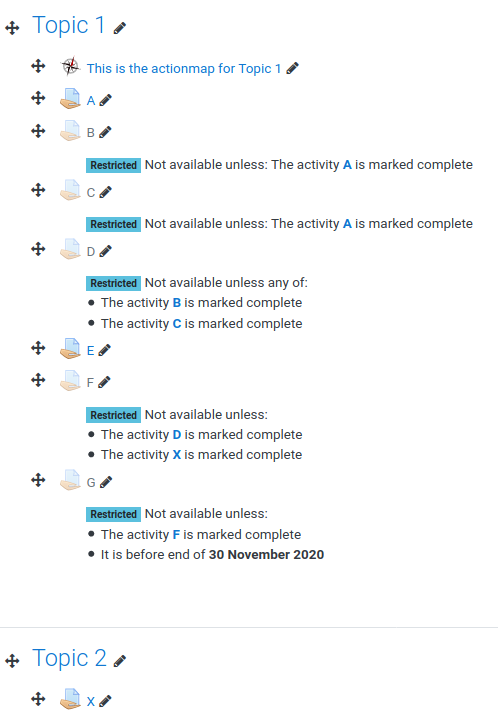
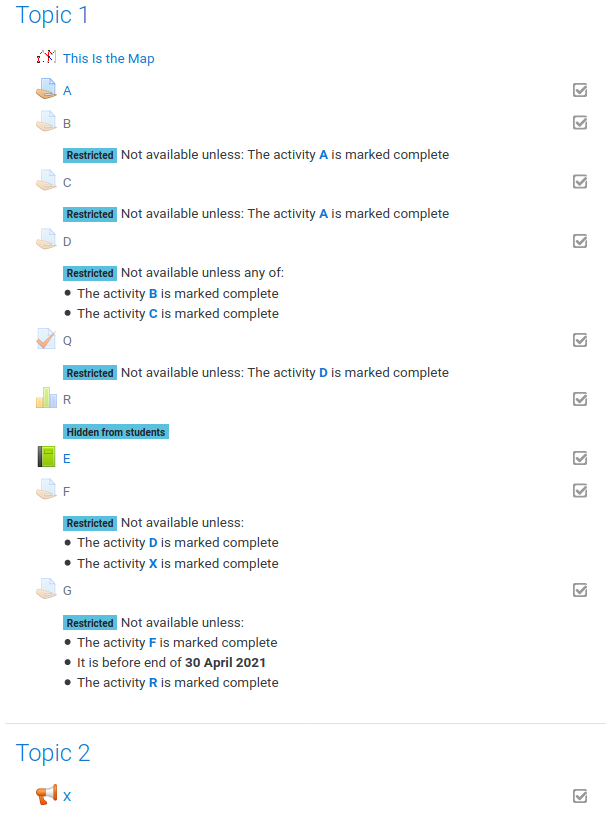
Version bump to v1.02 simplifies the graph by merging nodes with the same inputs. This merge fixes #15 and provides also some minor refactoring towards more readability.

diff --git a/gvizdot.php b/gvizdot.php
@@ -19,7 +19,7 @@
  * Activitymap module to graphviz compiler
  *
  * @package    mod_activitymap
- * @copyright  2020 Guenther Hutter, Andreas Poetscher
+ * @copyright  2021 Guenther Hutter, Andreas Poetscher
  * @license    http://www.gnu.org/copyleft/gpl.html GNU GPL v3 or later
  */
 
@@ -47,6 +47,9 @@ $PAGE->set_url('/mod/activitymap/gvizdot.php', array('id' => $mapid->id));
 $modinfo = get_fast_modinfo($courseid);
 
 $completion = new completion_info($course);
+
+$feature_show_cmIcons = true;
+$feature_mergeSameConditionNodes = true;
 
 //------------------------------------------------------------------------------
 //              DEBUGGING STUFF
@@ -343,7 +346,114 @@ function findPreviousCompletionModule($ccm, $modinfo)
     return "unknown_predecessor_for_" . $ccm;
 }
 
+//------------------------------------------------------------------------------
+/**
+    Finds nodes which are connected with the target node
+    
+    @targetnode the node where the other node should related to
+    @relation String "INCOMING" oder "OUTGOING" to tell the funciton if it 
+              should return the nodes which are connected via the incoming 
+              our outgoing nodes
+    @edgeliste the list of nodes where should be searched within
+*/
+function findLinkedNodes($targetnode, $relation, $edgelist)
+{
+    $ret = array();
 
+    foreach ($edgelist as $edge) 
+    {
+        if($relation == "INCOMING" && $targetnode == $edge[TO])
+        {
+            array_push($ret, $edge[FROM]);
+        }
+    
+        if($relation == "OUTGOING" && $targetnode == $edge[FROM])
+        {
+            array_push($ret, $edge[TO]);
+        }
+    }
+    
+    return array_unique($ret);
+}
+
+//------------------------------------------------------------------------------
+/**
+    Merges condition nodes. It tries to find nodes with similar inputs, and if
+    it finds some then an it prevents the rendering of the second (similar) node.
+    
+    I know that this approach is not very performant - approx O(n²), so 
+    if somebody finds a better solution file a pull request.
+    
+    @param conditionNodes Nodes which should be simplified. Usually all AND or al OR nodes
+    @param edges all edges which should be traversed 
+    @param nodes all noes which should be traversed
+    @returns nothing
+
+*/
+function mergeConditionNodes($conditionNodes, &$edges, &$nodes)
+{
+    // if you find a better solution file a pull request 
+    
+    $processedConditionNodes = array(); // conditions that we have already examined
+    for($i = 0; $i < sizeof($conditionNodes); $i++) 
+    {
+        $a = $conditionNodes[$i];
+        
+        // for each condition find other conditions that have the same inputs
+        $incomingNodes_a = findLinkedNodes($a, "INCOMING", $edges);
+        array_push($processedConditionNodes, $a);
+        
+        // search all other nodes
+        for($j = $i+1; $j < sizeof($conditionNodes); $j++) 
+        {
+            $b = $conditionNodes[$j];
+            // we dont have to look at the processed nodes again
+            if(in_array($b, $processedConditionNodes, true))
+            {
+                continue;
+            }           
+            
+            // clarification: Now we have foud two nodes which have potentially 
+            // the same inputs lets compare them
+            $incomingNodes_b = findLinkedNodes($b, "INCOMING", $edges);
+            
+           
+            // Compare if all nodes from a are in b and vice versa
+            // otherwise conditions a&b  is treated as different to b&a    
+            if(array_diff($incomingNodes_a, $incomingNodes_b) == array_diff($incomingNodes_b, $incomingNodes_a))
+            //if($incomingNodes_a == $incomingNodes_b)
+            {
+                // YES - we found a pair of nodes which have exactly the same inputs
+
+                // Make the incoming and outgoing links for $b invisible
+                for($k = 0; $k < sizeof($edges); $k++) 
+                {
+                    if($edges[$k][FROM] == $b || $edges[$k][TO] == $b)
+                    {
+                        $edges[$k][STYLE]["color"] = "red";
+                        $edges[$k][STYLE]["DO_NOT_RENDER"] = true;
+                    }
+                }                
+                
+                // reattach outgoing nodes
+                $outgoingNodes_b = findLinkedNodes($b, "OUTGOING", $edges);
+                foreach($outgoingNodes_b as $outb)
+                {
+                    $theNewLink = [$a, $outb, array("arrowhead" => "open")];
+                    //$theNewLink[STYLE]["color"] = "green";
+                    array_push($edges, $theNewLink); 
+                }
+                
+                // Make $b invisible
+                $nodes[$b]["color"] = "red";
+                $nodes[$b]["DO_NOT_RENDER"] = true;                
+                
+                // Remember that we have processed this node
+                array_push($processedConditionNodes, $b);
+            }
+        }
+    }
+}
 //------------------------------------------------------------------------------
 //              ACTUAL CODE STARTS HERE
 //------------------------------------------------------------------------------
@@ -358,8 +468,13 @@ print("rankdir=".$activitymap->graphdirection.";".PHP_EOL);
 
 
 // Process the conditions
-$gvnodes = array(); //<! Nodes which should be rendered
-$gvedges = array(); //<! Graphviz links between the course modules    
+$gvnodes = array(); //<! Nodes which should be rendered key=name_of_the_node, value=styleattributes 
+
+// Improove readability
+const FROM = 0;
+const TO = 1;
+const STYLE = 2;
+$gvedges = array(); //<! Graphviz links between the course modules   [0]=from, [1]=to, [2]=styleattributes 
 $gvsubgr = array(); //<! List of Subgraphs with the course modules in it
 
 foreach ($modinfo->cms as $id => $cm) {
@@ -380,9 +495,11 @@ foreach ($modinfo->cms as $id => $cm) {
       
         // Get the icon url of the activity and append it (See #14)
         // If this mechanism is changed, then it also has to be changed in the view.php
-        $cmIconUrl = new moodle_url('/mod/' . $cm->modname . '/pix/icon.png');
-        $gvnodeattributes["label"] = "<TABLE BORDER=\"0\" CELLPADDING=\"0\" CELLSPACING=\"0\"><TR><TD><IMG SRC=\"$cmIconUrl\"/></TD><TD>&nbsp; " . $gvnodeattributes["label"] . "</TD></TR></TABLE>";
-        
+        if($feature_show_cmIcons == true)
+        {
+            $cmIconUrl = new moodle_url('/mod/' . $cm->modname . '/pix/icon.png');
+            $gvnodeattributes["label"] = "<TABLE BORDER=\"0\" CELLPADDING=\"0\" CELLSPACING=\"0\"><TR><TD><IMG SRC=\"$cmIconUrl\"/></TD><TD>&nbsp; " . $gvnodeattributes["label"] . "</TD></TR></TABLE>";
+        }
 
         // Issue #10: Activities hidden by restriction condition should not be displayed
         if($cm->visible == false)
@@ -415,7 +532,7 @@ foreach ($modinfo->cms as $id => $cm) {
                 $editUrl = new moodle_url('/course/modedit.php', ['update' => $cm->id]);
                 
                 // Add a edit symbol in front of tne label
-                $gvnodeattributes["label"] = "<TABLE BORDER=\"0\" CELLPADDING=\"0\" CELLSPACING=\"0\"><TR><TD>" . $gvnodeattributes["label"] . "</TD><TD HREF=\"". $editUrl->__toString() ."\"><FONT POINT-SIZE=\"20\">&nbsp; &#x270D;</FONT></TD></TR></TABLE>";
+                $gvnodeattributes["label"] = "<TABLE BORDER=\"0\" CELLPADDING=\"0\" CELLSPACING=\"0\"><TR><TD>" . $gvnodeattributes["label"] . "</TD><TD HREF=\"". $editUrl->__toString() ."\"><FONT POINT-SIZE=\"20\">&nbsp; &#x2699;</FONT></TD></TR></TABLE>";
             }
         
             // Print completed activities in green
@@ -457,14 +574,58 @@ foreach ($modinfo->cms as $id => $cm) {
     }
 }
 
-// Simplify the graph by merging nodes with similar inputs and outputs together 
+//------------------------------------------------------------------------------
+//              Postprocessing
+//------------------------------------------------------------------------------
+// Simplify the graph by merging nodes with similar inputs together 
+
+if($feature_mergeSameConditionNodes == true)
+{
+    // Find the condition nodes
+    $andConditions = array();
+    $orConditions = array();
+    foreach ($gvnodes as $node => $attributes) 
+    {
+        if(startsWith($node, "condition_") == 0)
+        {
+            continue;
+        }
+     
+        if(strpos($node, "_AND_") > 0)
+        {
+            array_push($andConditions, $node);
+        }
         
+        if(strpos($node, "_OR_") > 0)
+        {
+            array_push($orConditions, $node);
+        }
+    }
+    
+    // OK, now find nodes with the same inputs. Because we can merge
+    // these ones together into one node with the same inputs but more outputs.
+    
+    // This functionality has been refactored into a function - otherwise it meight
+    // become unmaintainable in the future
+    mergeConditionNodes($andConditions, $gvedges, $gvnodes);
+    mergeConditionNodes($orConditions, $gvedges, $gvnodes);
+}
+  
 
 
-// Output the nodes
+//------------------------------------------------------------------------------
+//              Generating output
+//------------------------------------------------------------------------------
 print(PHP_EOL . "# All activities" . PHP_EOL);
 foreach ($gvnodes as $node => $attributes) 
 {
+
+        // This is a non-dot conformant extension which prevents the output of an edge.
+        if(array_key_exists("DO_NOT_RENDER",$attributes))
+        {
+            continue;
+        }
+        
         // Graphviz Knoten mit den Attributen aus $gvnodeattributes rendern
 		print(" " . $node . " [");
         foreach ($attributes as $attrib => $value) 
@@ -494,23 +655,29 @@ foreach ($gvedges as $edge)
 
     // Replace the "previous conditions" in the list of edges which are now named "cm_-1" with their correct counterparts
     // See Issue #11
-    if($edge[0] == "cm_-1")
+    if($edge[FROM] == "cm_-1")
     {
         // Search for the previous completabe module and replace the source node with the correct name
-        $edge[0] = findPreviousCompletionModule($edge[1], $modinfo);
+        $edge[FROM] = findPreviousCompletionModule($edge[TO], $modinfo);
     }
 
     // Look if we have a edge without a node that has beed processed.
     // this is sometime the case when we display only the current section
     // so lets remember this one and add a node later
-    if(array_key_exists($edge[0], $gvnodes) == false or startswith($edge[0],"unknown"))
+    if(array_key_exists($edge[FROM], $gvnodes) == false or startswith($edge[FROM], "unknown"))
     {
-        array_push($nodesWithoutInfo, $edge[0]);
+        array_push($nodesWithoutInfo, $edge[FROM]);
+    }
+    
+    // This prevents the output of an edge.
+    if(array_key_exists("DO_NOT_RENDER", $edge[STYLE]))
+    {
+        continue;
     }
     
     // And finally paint the edge
-    print(" " . $edge[0] . " -> " . $edge[1] . " [");
-    foreach ($edge[2] as $attribute => $value) 
+    print(" " . $edge[FROM] . " -> " . $edge[TO] . " [");
+    foreach ($edge[STYLE] as $attribute => $value) 
     {
        print(" ". $attribute . "=\"" . $value . "\"");
     }
@@ -617,6 +784,11 @@ if ($activitymap->content == "allSectionsGrouped")
             
             foreach($nodeids as $node) 
             {   
+                // This prevents the output of intentionally hidden nodes in the subgraph
+                if(array_key_exists("DO_NOT_RENDER", $gvnodes[$node]))
+                {
+                    continue;
+                }
                 print("  " . $node . ";" . PHP_EOL);
             }
             print(PHP_EOL . "}" . PHP_EOL);

diff --git a/version.php b/version.php
@@ -18,15 +18,15 @@
  * Activitymap module version information
  *
  * @package    mod_activitymap
- * @copyright  2020 Guenther Hutter, Andreas Poetscher
+ * @copyright  2021 Guenther Hutter, Andreas Poetscher
  * @license    http://www.gnu.org/copyleft/gpl.html GNU GPL v3 or later
  */
 
 defined('MOODLE_INTERNAL') || die();
 
-$plugin->version   = 2021012900;
+$plugin->version   = 2021042700;
 $plugin->requires  = 2014051200;
 $plugin->component = 'mod_activitymap';
 $plugin->supported = [37, 39]; // Moodle 3.7.x, 3.8.x and 3.9.x are supported.
 $plugin->maturity  = MATURITY_STABLE;
-$plugin->release   = 'v1.01';
+$plugin->release   = 'v1.02';

diff --git a/README.md b/README.md
@@ -139,13 +139,16 @@ The activitymap should only display the content of the current section.
 The plugin creates multiple types of nodes:
 
 Activity nodes 
-: The box nodes {`A`, `B`, `C`, `D`, `E`, `F`, `G`} are derived from the activities. These nodes are basically nodes with any type of activity completion. The description is only rendered if the description should be displayed on the course page. The node `A` and the node `E` do not have any incoming dependencies (edges) and can be taken at any time. 
+: The box nodes {`A`, `B`, `C`, `D`, `E`, `F`, `G`, `Q`, `X`} are derived from the activities. These nodes are basically nodes with any type of activity completion. The description is only rendered if the description should be displayed on the course page. The node `A` and the node `E` do not have any incoming dependencies (edges) and can be taken at any time. 
+
+Hidden nodes
+: The node `R` is an activity node which is hidden from the students. Hidden nodes are (in contrast to nodes without activity completion) still rendered within the graph, but there are no details shown.
 
 Condition nodes
 : These are the round nodes in the graph. If all conditions have to be met then a `&` node will be generated, if one condition is enough then a `>=1` node is generated. For example: Activity `D` can be taken if either `C` OR `D` is marked as completed. And the activity `F` can be taken if `D` AND `X` are marked as completed.
 
-Invisible nodes
-: The node `X` is a so called _invisible node_. Remember: This graph shows only the content of the Section _Topic 1_. `X` is required to work on activity `F` - and since it is located out of display scope (it is not in Topic 1) it is rendered as dotted elipse. 
+Unreachable nodes
+: The node `X` is a so called _unreachable node_. Remember: This graph shows only the content of the Section _Topic 1_. `X` is required to work on activity `F` - and since it is located out of display scope (it is not in Topic 1) it is rendered as dotted elipse. 
 
 Date nodes
 : The hexagonal shape at the right of the graph represents a date node. These nodes are representing a point in time which is linked as condition for a activity. In the upper example the activity `G` can only be taken if `F` is marked as complete AND if the current time is before Thuesday the 1st Dec. 2020. This also means that `F` can not be taken after that point in time. 
